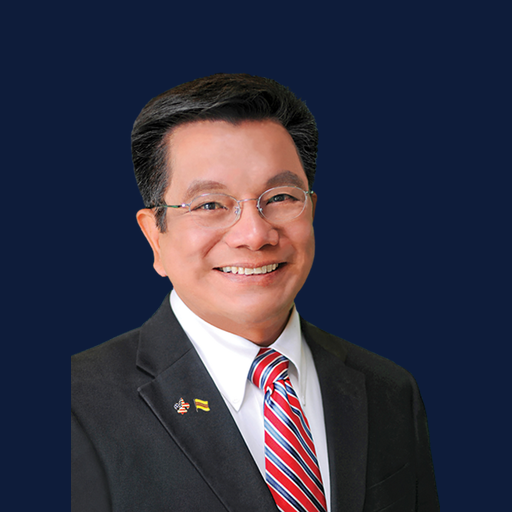
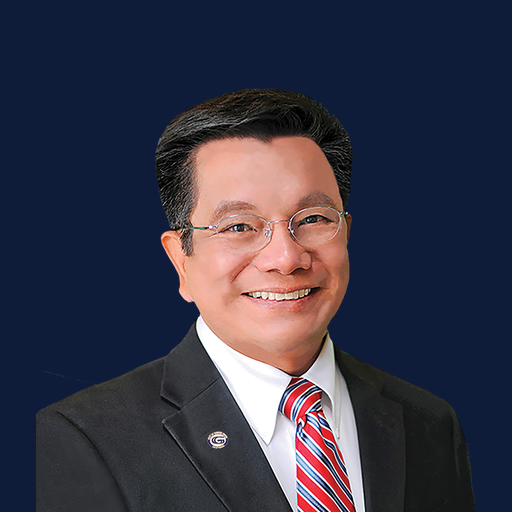
Update hero headshot and wire in the real donation link
New headshot photo replaces the placeholder cutout, with favicon/app icons/
social preview image regenerated to match. Donate buttons now point to the
real eFundraising Connections link.

diff --git a/content/site.config.ts b/content/site.config.ts
@@ -6,7 +6,9 @@ export const siteConfig = {
   tagline: "Proven Leadership. A Stronger Garden Grove.",
   committeeName: "Phat Bui for City Council 2026",
   fppcId: "1495726",
-  donateUrl: process.env.NEXT_PUBLIC_DONATE_URL || "#",
+  donateUrl:
+    process.env.NEXT_PUBLIC_DONATE_URL ||
+    "https://efundraisingconnections.com/c/PhatBui26",
   siteUrl: process.env.NEXT_PUBLIC_SITE_URL || "https://phatbui.com",
   social: {
     email: "info@phatbui.com",
